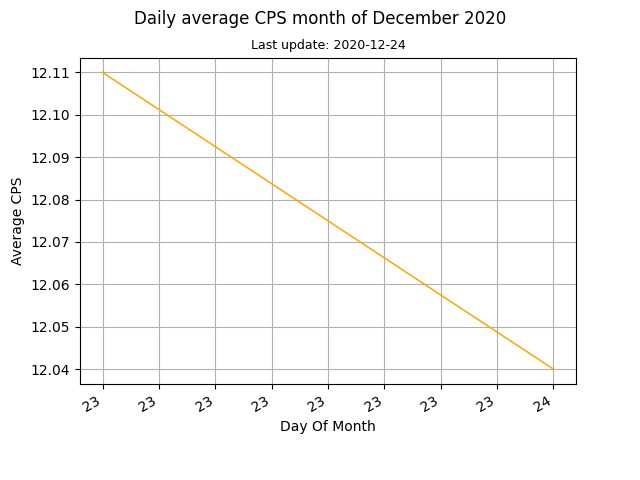
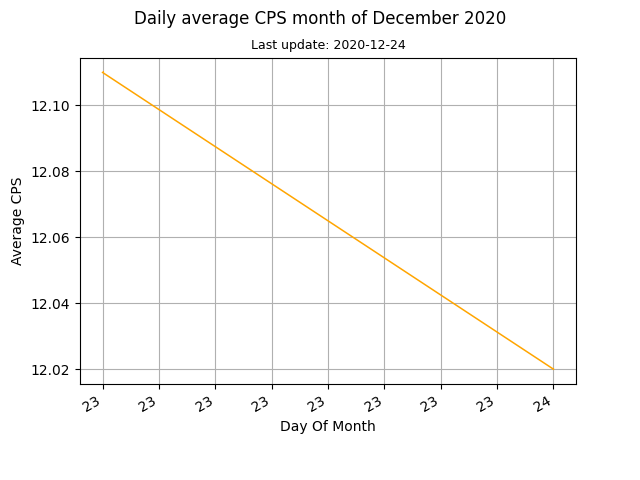
update data

diff --git a/docs/index.html b/docs/index.html
@@ -14,7 +14,7 @@
 <body>
 
 	<h1>Hello World!</h1>
-	<h2>Current cps: 11.98</h2>
+	<h2>Current cps: 11.85</h2>
 
 	<p><img src="images/monthly.png" alt="Mothly avg cps data"><img src="images/daily.png" alt="Daily avg cps data"></p>
 
